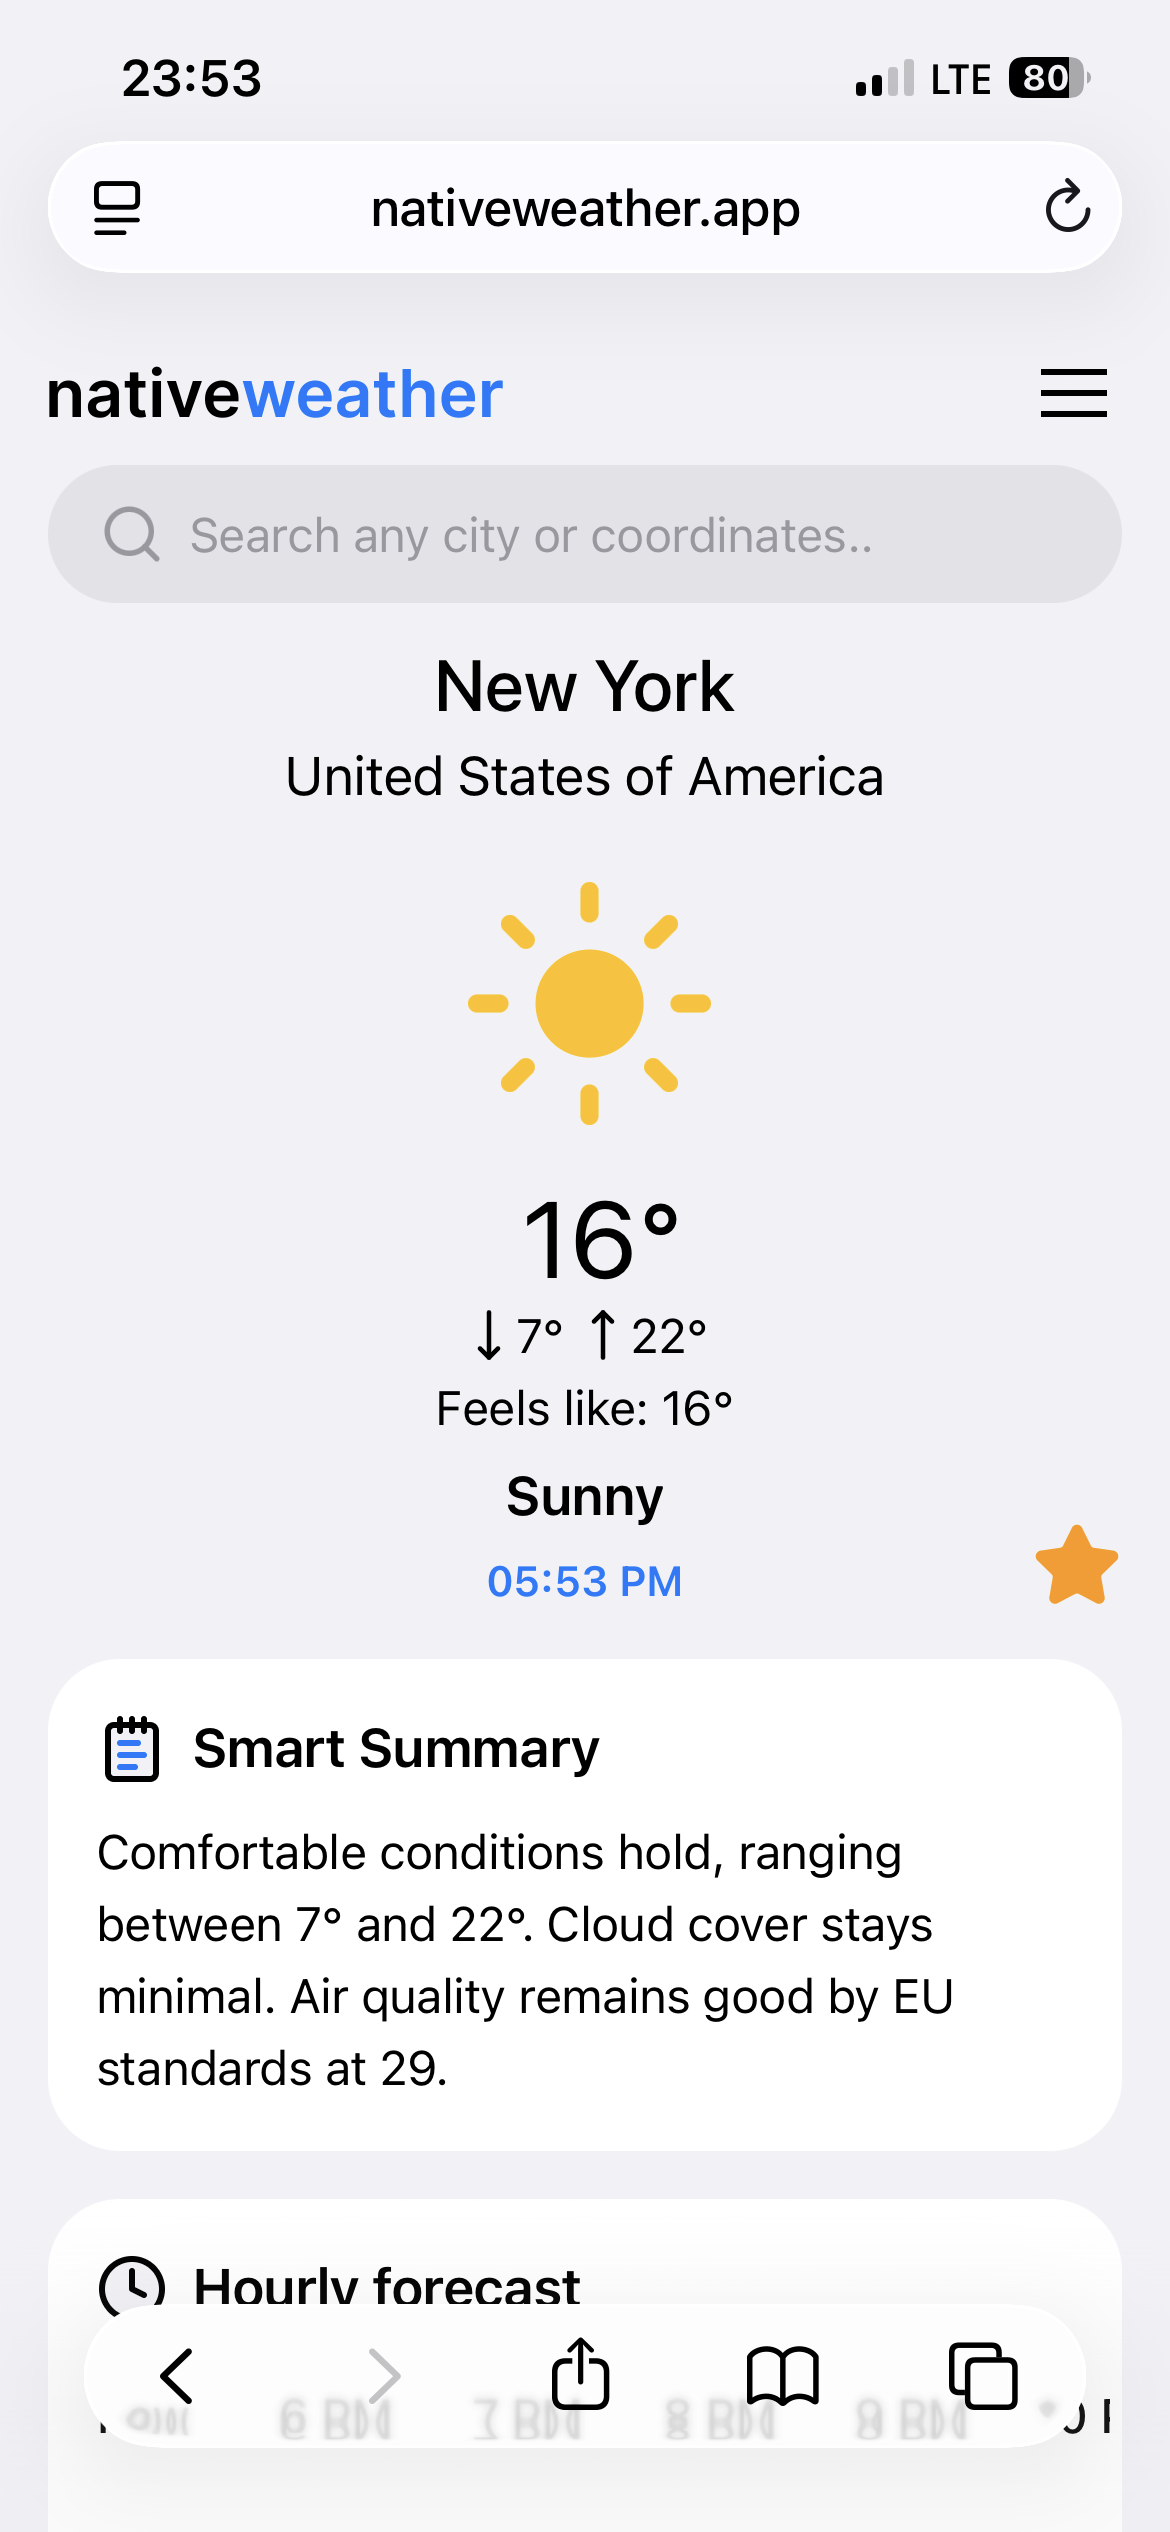
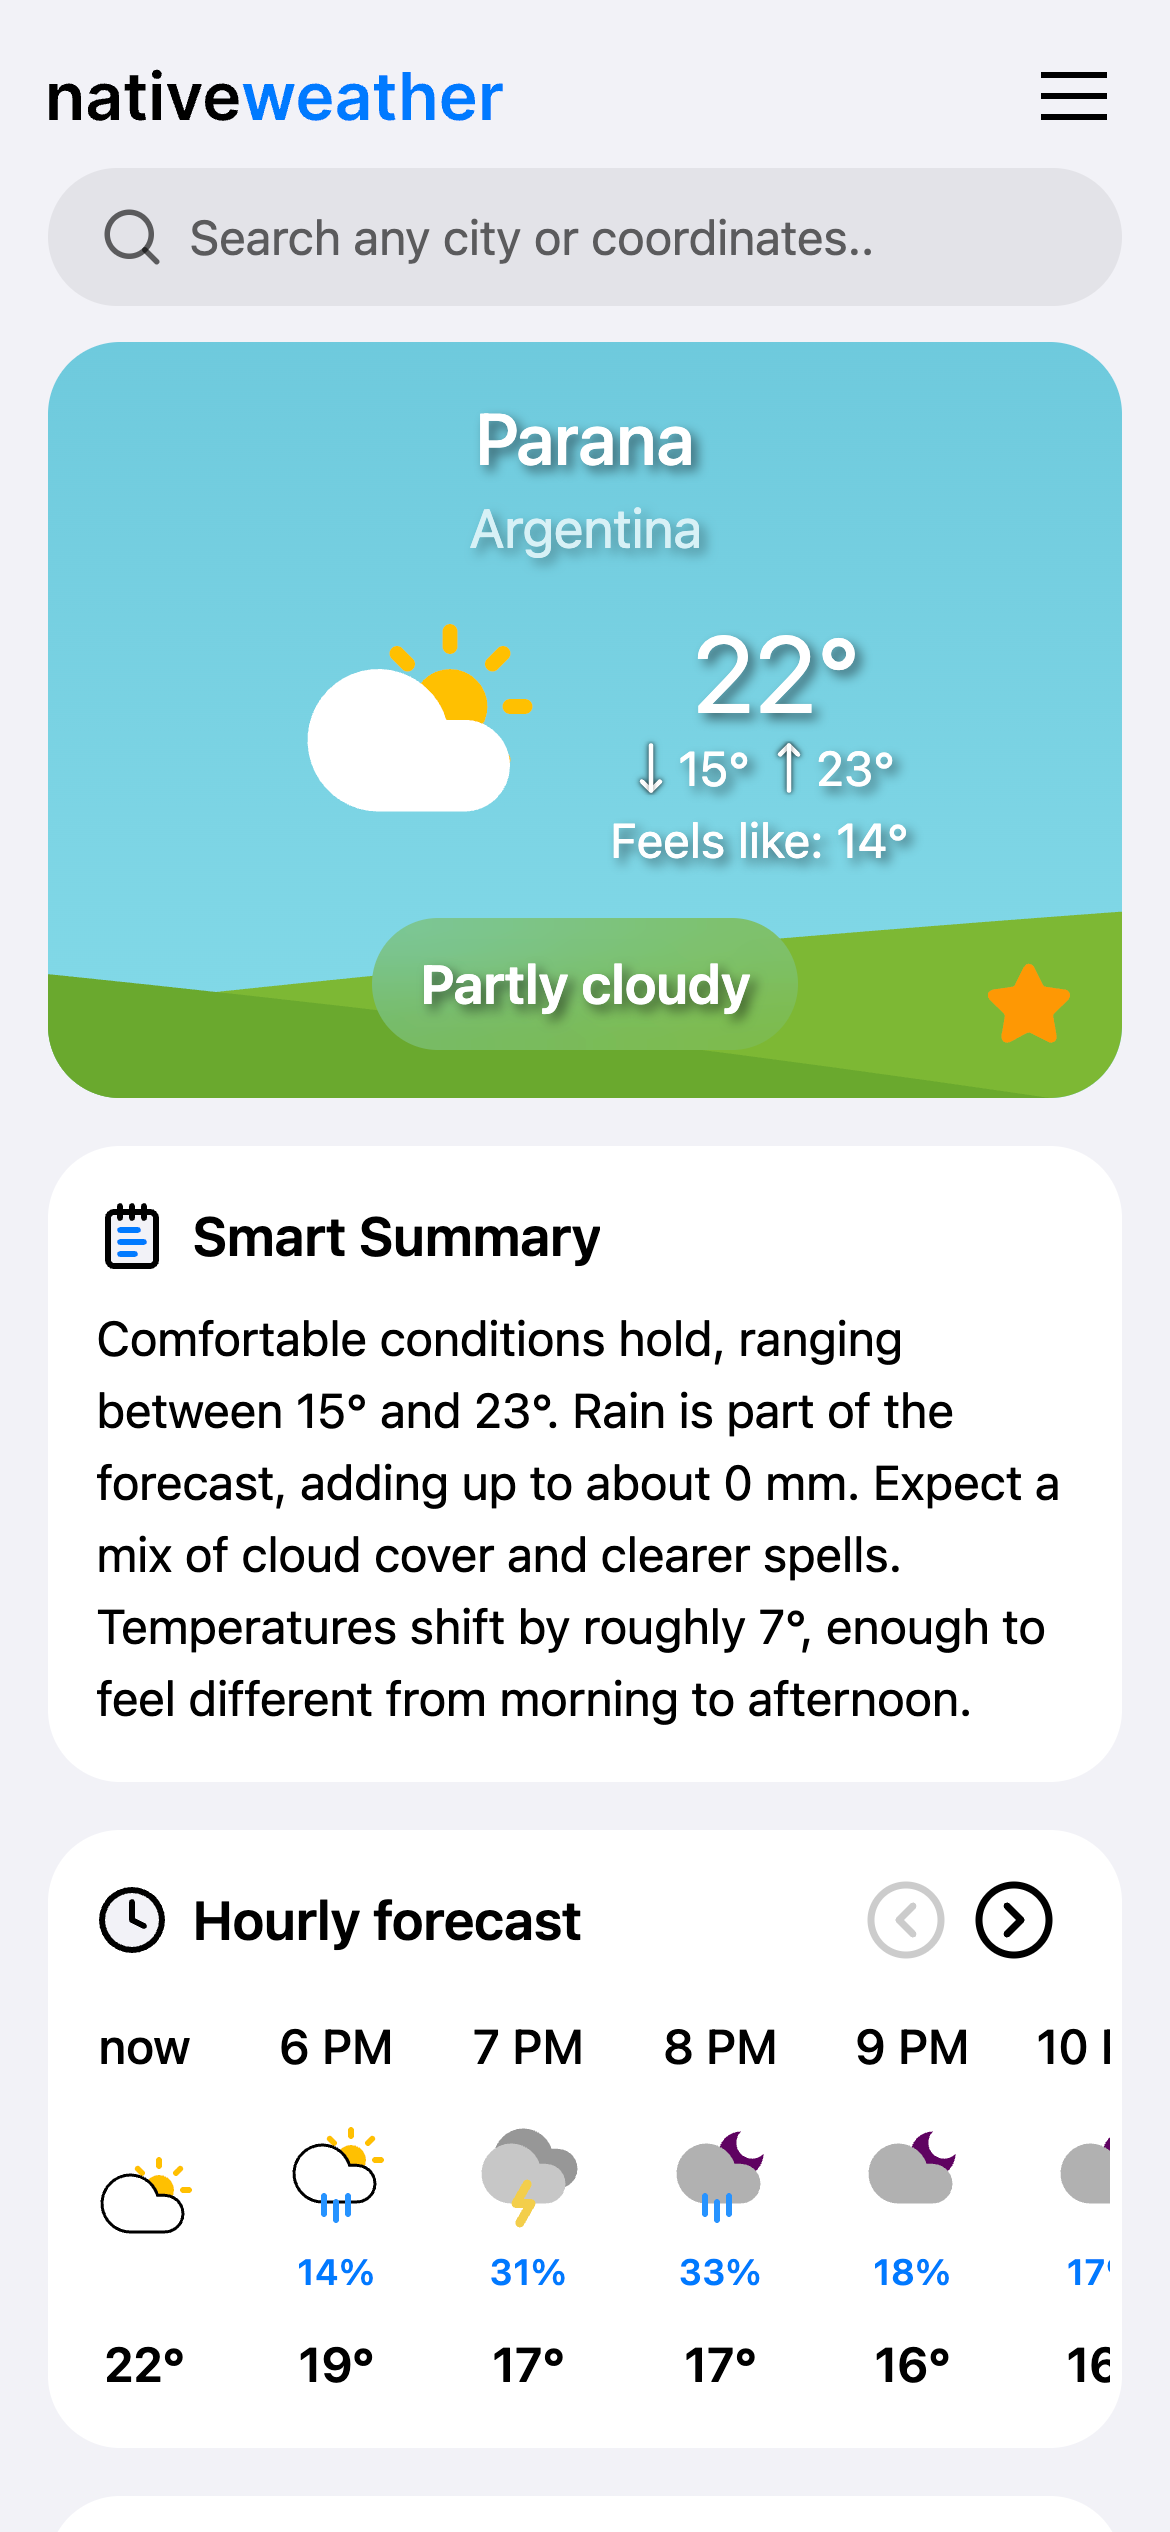
chore: readme change

diff --git a/README.md b/README.md
@@ -10,6 +10,8 @@
 
 <!-- ![GitHub release](https://img.shields.io/github/v/release/rudolfbok/nativeweather) -->
 
+![Status](https://img.shields.io/badge/status-active%20development-blue)
+
 [![Cloudflare Workers](https://img.shields.io/badge/Cloudflare%20Workers-FF4A03?logo=Cloudflare-Workers&logoColor=white)](https://nativeweather.app/) [![App Store](https://img.shields.io/badge/App_Store-0D96F6?logo=app-store&logoColor=white)](#) [![Google Play](https://img.shields.io/badge/Google%20Play-3CAB59?logo=google-play&logoColor=white)](#) [![MacOS](https://img.shields.io/badge/MacOS--9cf?logo=Apple&style=social)](#)
 
 <!-- [![Web App](https://img.shields.io/badge/Web%20App-live-2F855A?logo=cloudflare&logoColor=white)](https://nativeweather.app/) -->
@@ -25,12 +27,17 @@
 </div>
 
 <div align="center">
-<img src="packages/app/assets/readme/ios_3.png" alt="iOS screeshot no. 3" width="200" />
-&nbsp;
+<img src="packages/app/assets/readme/web_3.png" alt="web screeshot no. 1" width="600" />
+</div>
+
+<div align="center">
+
+<!-- <img src="packages/app/assets/readme/web_1.png" alt="Web screeshot no. 1" width="200" />
+&nbsp; -->
 <!-- <img src="packages/app/assets/readme/ios_1.png" alt="iOS screeshot no. 1" width="200" /> -->
 <img src="packages/app/assets/readme/ios_4.png" alt="iOS screeshot no. 2" width="200" />
 &nbsp;
-<img src="packages/app/assets/readme/ios_2.png" alt="iOS screeshot no. 2" width="200" />
+<img src="packages/app/assets/readme/ios_2.png" alt="iOS screeshot no. 3" width="200" />
 <!-- &nbsp;
 <img src="packages/app/assets/readme/web_1.png" alt="iOS screeshot no. 2" width="200" /> -->
 </div>
@@ -58,6 +65,8 @@
 <br/>
 
 <div align="center">
+
+** **THIS PROJECT IS UNDER ACTIVE DEVELOPMENT AND SHOULD BE CONSIDERED AS SUCH** **
 
 NativeWeather is a cross-platform weather application for Web, iOS, Android and macOS
 <br/><br/>
